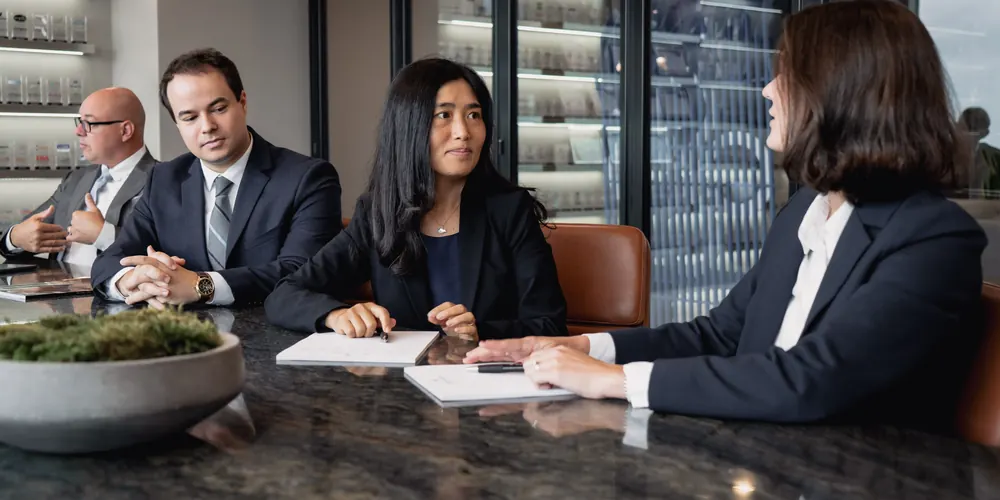
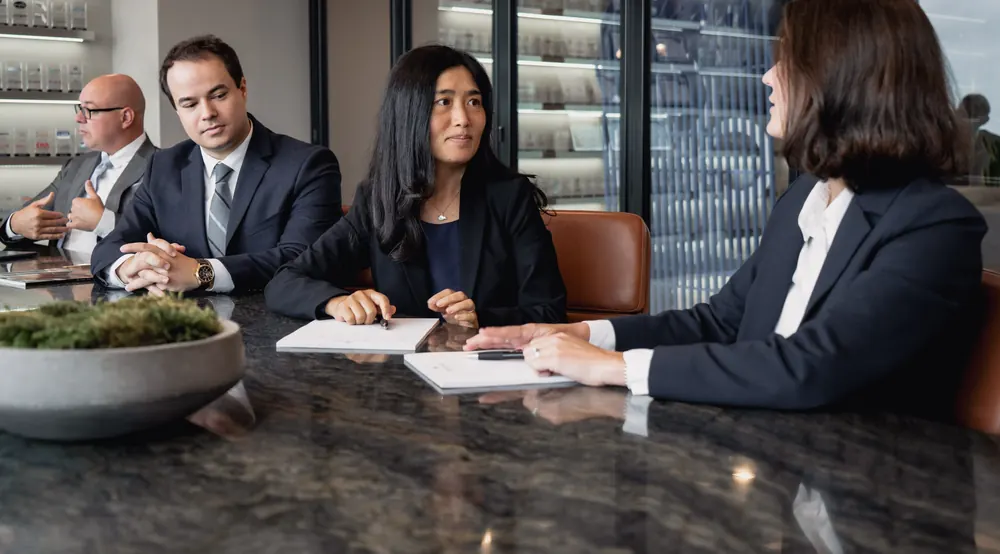
Home hero carousel: keep every head in frame at any width, add shots of Alex

diff --git a/mmt-sandbox-pvxyebvoxa/index.html b/mmt-sandbox-pvxyebvoxa/index.html
@@ -16,7 +16,7 @@
 <link rel="preload" as="style" href="https://fonts.googleapis.com/css2?family=Montserrat:wght@400;500;600;700&family=Source+Serif+4:opsz,wght@8..60,400;8..60,600&display=swap">
 <link rel="stylesheet" href="https://fonts.googleapis.com/css2?family=Montserrat:wght@400;500;600;700&family=Source+Serif+4:opsz,wght@8..60,400;8..60,600&display=swap" media="print" onload="this.media='all'">
 <noscript><link rel="stylesheet" href="https://fonts.googleapis.com/css2?family=Montserrat:wght@400;500;600;700&family=Source+Serif+4:opsz,wght@8..60,400;8..60,600&display=swap"></noscript>
-<link rel="stylesheet" href="assets/css/style.css?v=f69deb2e">
+<link rel="stylesheet" href="assets/css/style.css?v=2761323b">
 <meta name="robots" content="index, follow, max-snippet:-1, max-image-preview:large, max-video-preview:-1">
 <link rel="canonical" href="https://jp-hardin.github.io/about/mmt-sandbox-pvxyebvoxa/">
 <link rel="alternate" type="text/markdown" href="https://jp-hardin.github.io/about/mmt-sandbox-pvxyebvoxa/index.md" title="Middle Market M&amp;A Advisory | Benchmark International (Markdown)">
@@ -53,7 +53,7 @@
 </header>
 <main id="main">
 
-<section class="hero hero--photo hero--reel"><div class="hero-media hero-reel" aria-hidden="true" style="--slides: 7; --reel: 35s"><img class="reel-intro" src="assets/img/brand/knot-dark.jpg" alt="" width="1920" height="1080"><img src="assets/img/team-photos/dsc06817-crop.webp" srcset="assets/img/team-photos/dsc06817-crop-sm.webp 1000w, assets/img/team-photos/dsc06817-crop.webp 2000w" sizes="100vw" alt="" width="2000" height="761" fetchpriority="high" class="reel-slide" style="object-position: 50% 46%; transform-origin: 50% 46%; animation-delay: 1.5s"><img src="assets/img/team-photos/dsc07116-crop.webp" srcset="assets/img/team-photos/dsc07116-crop-sm.webp 1000w, assets/img/team-photos/dsc07116-crop.webp 2000w" sizes="100vw" alt="" width="2000" height="1133" class="reel-slide" style="object-position: 50% 25%; transform-origin: 50% 25%; animation-delay: 6.5s"><img src="assets/img/team-photos/dsc07374-crop.webp" srcset="assets/img/team-photos/dsc07374-crop-sm.webp 1000w, assets/img/team-photos/dsc07374-crop.webp 2000w" sizes="100vw" alt="" width="2000" height="773" class="reel-slide" style="object-position: 50% 34%; transform-origin: 50% 34%; animation-delay: 11.5s"><img src="assets/img/team-photos/dsc06680-crop.webp" srcset="assets/img/team-photos/dsc06680-crop-sm.webp 1000w, assets/img/team-photos/dsc06680-crop.webp 2000w" sizes="100vw" alt="" width="2000" height="1067" class="reel-slide" style="object-position: 50% 34%; transform-origin: 50% 34%; animation-delay: 16.5s"><img src="assets/img/team-photos/dsc07005-crop.webp" srcset="assets/img/team-photos/dsc07005-crop-sm.webp 1000w, assets/img/team-photos/dsc07005-crop.webp 2000w" sizes="100vw" alt="" width="2000" height="1000" class="reel-slide" style="object-position: 50% 27%; transform-origin: 50% 27%; animation-delay: 21.5s"><img src="assets/img/team-photos/dsc07187-crop.webp" srcset="assets/img/team-photos/dsc07187-crop-sm.webp 1000w, assets/img/team-photos/dsc07187-crop.webp 2000w" sizes="100vw" alt="" width="2000" height="1000" class="reel-slide" style="object-position: 50% 28%; transform-origin: 50% 28%; animation-delay: 26.5s"><img src="assets/img/team-photos/dsc07178-crop.webp" srcset="assets/img/team-photos/dsc07178-crop-sm.webp 1000w, assets/img/team-photos/dsc07178-crop.webp 2000w" sizes="100vw" alt="" width="2000" height="1001" class="reel-slide" style="object-position: 50% 31%; transform-origin: 50% 31%; animation-delay: 31.5s"></div>
+<style>@keyframes reel { 0% { opacity: 0; transform: scale(1.1); } 3.75% { opacity: 1; } 16.25% { opacity: 1; } 20.00% { opacity: 0; transform: scale(1.02); } 100% { opacity: 0; transform: scale(1.02); } }</style><section class="hero hero--photo hero--reel"><div class="hero-media hero-reel" aria-hidden="true" style="--slides: 8; --reel: 40s"><img class="reel-intro" src="assets/img/brand/knot-dark.jpg" alt="" width="1920" height="1080"><img src="assets/img/team-photos/dsc06817-crop.webp" srcset="assets/img/team-photos/dsc06817-crop-sm.webp 1000w, assets/img/team-photos/dsc06817-crop.webp 2000w" sizes="100vw" alt="" width="2000" height="734" fetchpriority="high" class="reel-slide" style="object-position: 60% 0%; transform-origin: 60% 0%; animation-delay: 1.5s"><img src="assets/img/team-photos/dsc07116-crop.webp" srcset="assets/img/team-photos/dsc07116-crop-sm.webp 1000w, assets/img/team-photos/dsc07116-crop.webp 2000w" sizes="100vw" alt="" width="2000" height="1373" class="reel-slide" style="object-position: 85% 0%; transform-origin: 85% 0%; animation-delay: 6.5s"><img src="assets/img/team-photos/dsc06557-crop.webp" srcset="assets/img/team-photos/dsc06557-crop-sm.webp 1000w, assets/img/team-photos/dsc06557-crop.webp 2000w" sizes="100vw" alt="" width="2000" height="1269" class="reel-slide" style="object-position: 68% 0%; transform-origin: 68% 0%; animation-delay: 11.5s"><img src="assets/img/team-photos/dsc07374-crop.webp" srcset="assets/img/team-photos/dsc07374-crop-sm.webp 1000w, assets/img/team-photos/dsc07374-crop.webp 2000w" sizes="100vw" alt="" width="2000" height="1000" class="reel-slide" style="object-position: 50% 0%; transform-origin: 50% 0%; animation-delay: 16.5s"><img src="assets/img/team-photos/dsc07161-crop.webp" srcset="assets/img/team-photos/dsc07161-crop-sm.webp 1000w, assets/img/team-photos/dsc07161-crop.webp 2000w" sizes="100vw" alt="" width="2000" height="1134" class="reel-slide" style="object-position: 78% 0%; transform-origin: 78% 0%; animation-delay: 21.5s"><img src="assets/img/team-photos/dsc07005-crop.webp" srcset="assets/img/team-photos/dsc07005-crop-sm.webp 1000w, assets/img/team-photos/dsc07005-crop.webp 2000w" sizes="100vw" alt="" width="2000" height="1013" class="reel-slide" style="object-position: 50% 0%; transform-origin: 50% 0%; animation-delay: 26.5s"><img src="assets/img/team-photos/dsc07187-crop.webp" srcset="assets/img/team-photos/dsc07187-crop-sm.webp 1000w, assets/img/team-photos/dsc07187-crop.webp 2000w" sizes="100vw" alt="" width="2000" height="1107" class="reel-slide" style="object-position: 70% 0%; transform-origin: 70% 0%; animation-delay: 31.5s"><img src="assets/img/team-photos/dsc07178-crop.webp" srcset="assets/img/team-photos/dsc07178-crop-sm.webp 1000w, assets/img/team-photos/dsc07178-crop.webp 2000w" sizes="100vw" alt="" width="2000" height="1107" class="reel-slide" style="object-position: 55% 0%; transform-origin: 55% 0%; animation-delay: 36.5s"></div>
   <div class="wrap">
     <p class="eyebrow">Benchmark International · <span class="nowrap">Middle Market</span></p>
     <h1 class="display">Your Legacy Is Built. <em>Your Next Chapter Awaits.</em></h1>

diff --git a/mmt-sandbox-pvxyebvoxa/assets/css/style.css b/mmt-sandbox-pvxyebvoxa/assets/css/style.css
@@ -803,17 +803,12 @@ a.tomb:hover { transform: translateY(-4px); box-shadow: var(--shadow); border-co
 /* Team photos (img.team-photo) are cropped to keep heads in frame; each sets object-position on the faces (team_photos.py) */
 
 /* Home hero carousel (hero_carousel() in build.py): the slides stack and crossfade in turn, each on a slow zoom,
-   so the hero plays almost like a video. Each slide is on screen for --reel / --slides (5 s), with a 1.5 s dissolve. */
+   so the hero plays almost like a video. Each slide is on screen for 5 s, with a 1.5 s dissolve. */
 .hero-reel img { position: absolute; inset: 0; }
 .hero-reel .reel-intro { animation: none; object-position: center; }  /* the black knot brand background, shown first */
 .hero-reel .reel-slide { opacity: 0; animation: reel var(--reel) linear infinite; }
-@keyframes reel {
-  0% { opacity: 0; transform: scale(1.12); }
-  4.3% { opacity: 1; }
-  18.6% { opacity: 1; }
-  23% { opacity: 0; transform: scale(1.02); }
-  100% { opacity: 0; transform: scale(1.02); }
-}
+/* @keyframes reel is written next to the hero by hero_carousel(), timed from the number of slides */
+
 @media (prefers-reduced-motion: reduce) {
   .hero-reel .reel-slide { animation: none; }
   .hero-reel .reel-slide:nth-child(2) { opacity: 1; }

diff --git a/mmt-sandbox-pvxyebvoxa/industries/business-services.html b/mmt-sandbox-pvxyebvoxa/industries/business-services.html
@@ -16,7 +16,7 @@
 <link rel="preload" as="style" href="https://fonts.googleapis.com/css2?family=Montserrat:wght@400;500;600;700&family=Source+Serif+4:opsz,wght@8..60,400;8..60,600&display=swap">
 <link rel="stylesheet" href="https://fonts.googleapis.com/css2?family=Montserrat:wght@400;500;600;700&family=Source+Serif+4:opsz,wght@8..60,400;8..60,600&display=swap" media="print" onload="this.media='all'">
 <noscript><link rel="stylesheet" href="https://fonts.googleapis.com/css2?family=Montserrat:wght@400;500;600;700&family=Source+Serif+4:opsz,wght@8..60,400;8..60,600&display=swap"></noscript>
-<link rel="stylesheet" href="../assets/css/style.css?v=f69deb2e">
+<link rel="stylesheet" href="../assets/css/style.css?v=2761323b">
 <meta name="robots" content="index, follow, max-snippet:-1, max-image-preview:large, max-video-preview:-1">
 <link rel="canonical" href="https://jp-hardin.github.io/about/mmt-sandbox-pvxyebvoxa/industries/business-services.html">
 <link rel="alternate" type="text/markdown" href="https://jp-hardin.github.io/about/mmt-sandbox-pvxyebvoxa/industries/business-services.md" title="Business Services M&amp;A Advisory | Benchmark International (Markdown)">

diff --git a/mmt-sandbox-pvxyebvoxa/industries/industrial.html b/mmt-sandbox-pvxyebvoxa/industries/industrial.html
@@ -16,7 +16,7 @@
 <link rel="preload" as="style" href="https://fonts.googleapis.com/css2?family=Montserrat:wght@400;500;600;700&family=Source+Serif+4:opsz,wght@8..60,400;8..60,600&display=swap">
 <link rel="stylesheet" href="https://fonts.googleapis.com/css2?family=Montserrat:wght@400;500;600;700&family=Source+Serif+4:opsz,wght@8..60,400;8..60,600&display=swap" media="print" onload="this.media='all'">
 <noscript><link rel="stylesheet" href="https://fonts.googleapis.com/css2?family=Montserrat:wght@400;500;600;700&family=Source+Serif+4:opsz,wght@8..60,400;8..60,600&display=swap"></noscript>
-<link rel="stylesheet" href="../assets/css/style.css?v=f69deb2e">
+<link rel="stylesheet" href="../assets/css/style.css?v=2761323b">
 <meta name="robots" content="index, follow, max-snippet:-1, max-image-preview:large, max-video-preview:-1">
 <link rel="canonical" href="https://jp-hardin.github.io/about/mmt-sandbox-pvxyebvoxa/industries/industrial.html">
 <link rel="alternate" type="text/markdown" href="https://jp-hardin.github.io/about/mmt-sandbox-pvxyebvoxa/industries/industrial.md" title="Industrials M&amp;A Advisory | Benchmark International (Markdown)">

diff --git a/mmt-sandbox-pvxyebvoxa/industries/healthcare.html b/mmt-sandbox-pvxyebvoxa/industries/healthcare.html
@@ -16,7 +16,7 @@
 <link rel="preload" as="style" href="https://fonts.googleapis.com/css2?family=Montserrat:wght@400;500;600;700&family=Source+Serif+4:opsz,wght@8..60,400;8..60,600&display=swap">
 <link rel="stylesheet" href="https://fonts.googleapis.com/css2?family=Montserrat:wght@400;500;600;700&family=Source+Serif+4:opsz,wght@8..60,400;8..60,600&display=swap" media="print" onload="this.media='all'">
 <noscript><link rel="stylesheet" href="https://fonts.googleapis.com/css2?family=Montserrat:wght@400;500;600;700&family=Source+Serif+4:opsz,wght@8..60,400;8..60,600&display=swap"></noscript>
-<link rel="stylesheet" href="../assets/css/style.css?v=f69deb2e">
+<link rel="stylesheet" href="../assets/css/style.css?v=2761323b">
 <meta name="robots" content="index, follow, max-snippet:-1, max-image-preview:large, max-video-preview:-1">
 <link rel="canonical" href="https://jp-hardin.github.io/about/mmt-sandbox-pvxyebvoxa/industries/healthcare.html">
 <link rel="alternate" type="text/markdown" href="https://jp-hardin.github.io/about/mmt-sandbox-pvxyebvoxa/industries/healthcare.md" title="Healthcare M&amp;A Advisory | Benchmark International (Markdown)">

diff --git a/mmt-sandbox-pvxyebvoxa/industries/technology.html b/mmt-sandbox-pvxyebvoxa/industries/technology.html
@@ -16,7 +16,7 @@
 <link rel="preload" as="style" href="https://fonts.googleapis.com/css2?family=Montserrat:wght@400;500;600;700&family=Source+Serif+4:opsz,wght@8..60,400;8..60,600&display=swap">
 <link rel="stylesheet" href="https://fonts.googleapis.com/css2?family=Montserrat:wght@400;500;600;700&family=Source+Serif+4:opsz,wght@8..60,400;8..60,600&display=swap" media="print" onload="this.media='all'">
 <noscript><link rel="stylesheet" href="https://fonts.googleapis.com/css2?family=Montserrat:wght@400;500;600;700&family=Source+Serif+4:opsz,wght@8..60,400;8..60,600&display=swap"></noscript>
-<link rel="stylesheet" href="../assets/css/style.css?v=f69deb2e">
+<link rel="stylesheet" href="../assets/css/style.css?v=2761323b">
 <meta name="robots" content="index, follow, max-snippet:-1, max-image-preview:large, max-video-preview:-1">
 <link rel="canonical" href="https://jp-hardin.github.io/about/mmt-sandbox-pvxyebvoxa/industries/technology.html">
 <link rel="alternate" type="text/markdown" href="https://jp-hardin.github.io/about/mmt-sandbox-pvxyebvoxa/industries/technology.md" title="Technology M&amp;A Advisory | Benchmark International (Markdown)">

diff --git a/mmt-sandbox-pvxyebvoxa/industries/index.html b/mmt-sandbox-pvxyebvoxa/industries/index.html
@@ -16,7 +16,7 @@
 <link rel="preload" as="style" href="https://fonts.googleapis.com/css2?family=Montserrat:wght@400;500;600;700&family=Source+Serif+4:opsz,wght@8..60,400;8..60,600&display=swap">
 <link rel="stylesheet" href="https://fonts.googleapis.com/css2?family=Montserrat:wght@400;500;600;700&family=Source+Serif+4:opsz,wght@8..60,400;8..60,600&display=swap" media="print" onload="this.media='all'">
 <noscript><link rel="stylesheet" href="https://fonts.googleapis.com/css2?family=Montserrat:wght@400;500;600;700&family=Source+Serif+4:opsz,wght@8..60,400;8..60,600&display=swap"></noscript>
-<link rel="stylesheet" href="../assets/css/style.css?v=f69deb2e">
+<link rel="stylesheet" href="../assets/css/style.css?v=2761323b">
 <meta name="robots" content="index, follow, max-snippet:-1, max-image-preview:large, max-video-preview:-1">
 <link rel="canonical" href="https://jp-hardin.github.io/about/mmt-sandbox-pvxyebvoxa/industries/index.html">
 <link rel="alternate" type="text/markdown" href="https://jp-hardin.github.io/about/mmt-sandbox-pvxyebvoxa/industries/index.md" title="Industries We Advise | Benchmark International Middle Market (Markdown)">

diff --git a/mmt-sandbox-pvxyebvoxa/insights/index.html b/mmt-sandbox-pvxyebvoxa/insights/index.html
@@ -16,7 +16,7 @@
 <link rel="preload" as="style" href="https://fonts.googleapis.com/css2?family=Montserrat:wght@400;500;600;700&family=Source+Serif+4:opsz,wght@8..60,400;8..60,600&display=swap">
 <link rel="stylesheet" href="https://fonts.googleapis.com/css2?family=Montserrat:wght@400;500;600;700&family=Source+Serif+4:opsz,wght@8..60,400;8..60,600&display=swap" media="print" onload="this.media='all'">
 <noscript><link rel="stylesheet" href="https://fonts.googleapis.com/css2?family=Montserrat:wght@400;500;600;700&family=Source+Serif+4:opsz,wght@8..60,400;8..60,600&display=swap"></noscript>
-<link rel="stylesheet" href="../assets/css/style.css?v=f69deb2e">
+<link rel="stylesheet" href="../assets/css/style.css?v=2761323b">
 <meta name="robots" content="index, follow, max-snippet:-1, max-image-preview:large, max-video-preview:-1">
 <link rel="canonical" href="https://jp-hardin.github.io/about/mmt-sandbox-pvxyebvoxa/insights/index.html">
 <link rel="alternate" type="text/markdown" href="https://jp-hardin.github.io/about/mmt-sandbox-pvxyebvoxa/insights/index.md" title="Middle Market M&amp;A Industry Reports | Benchmark International (Markdown)">

diff --git a/mmt-sandbox-pvxyebvoxa/industries/consumer.html b/mmt-sandbox-pvxyebvoxa/industries/consumer.html
@@ -16,7 +16,7 @@
 <link rel="preload" as="style" href="https://fonts.googleapis.com/css2?family=Montserrat:wght@400;500;600;700&family=Source+Serif+4:opsz,wght@8..60,400;8..60,600&display=swap">
 <link rel="stylesheet" href="https://fonts.googleapis.com/css2?family=Montserrat:wght@400;500;600;700&family=Source+Serif+4:opsz,wght@8..60,400;8..60,600&display=swap" media="print" onload="this.media='all'">
 <noscript><link rel="stylesheet" href="https://fonts.googleapis.com/css2?family=Montserrat:wght@400;500;600;700&family=Source+Serif+4:opsz,wght@8..60,400;8..60,600&display=swap"></noscript>
-<link rel="stylesheet" href="../assets/css/style.css?v=f69deb2e">
+<link rel="stylesheet" href="../assets/css/style.css?v=2761323b">
 <meta name="robots" content="index, follow, max-snippet:-1, max-image-preview:large, max-video-preview:-1">
 <link rel="canonical" href="https://jp-hardin.github.io/about/mmt-sandbox-pvxyebvoxa/industries/consumer.html">
 <link rel="alternate" type="text/markdown" href="https://jp-hardin.github.io/about/mmt-sandbox-pvxyebvoxa/industries/consumer.md" title="Consumer M&amp;A Advisory | Benchmark International (Markdown)">

diff --git a/mmt-sandbox-pvxyebvoxa/transactions.html b/mmt-sandbox-pvxyebvoxa/transactions.html
@@ -16,7 +16,7 @@
 <link rel="preload" as="style" href="https://fonts.googleapis.com/css2?family=Montserrat:wght@400;500;600;700&family=Source+Serif+4:opsz,wght@8..60,400;8..60,600&display=swap">
 <link rel="stylesheet" href="https://fonts.googleapis.com/css2?family=Montserrat:wght@400;500;600;700&family=Source+Serif+4:opsz,wght@8..60,400;8..60,600&display=swap" media="print" onload="this.media='all'">
 <noscript><link rel="stylesheet" href="https://fonts.googleapis.com/css2?family=Montserrat:wght@400;500;600;700&family=Source+Serif+4:opsz,wght@8..60,400;8..60,600&display=swap"></noscript>
-<link rel="stylesheet" href="assets/css/style.css?v=f69deb2e">
+<link rel="stylesheet" href="assets/css/style.css?v=2761323b">
 <meta name="robots" content="index, follow, max-snippet:-1, max-image-preview:large, max-video-preview:-1">
 <link rel="canonical" href="https://jp-hardin.github.io/about/mmt-sandbox-pvxyebvoxa/transactions.html">
 <link rel="alternate" type="text/markdown" href="https://jp-hardin.github.io/about/mmt-sandbox-pvxyebvoxa/transactions.md" title="Completed M&amp;A Transactions | Benchmark International (Markdown)">

diff --git a/mmt-sandbox-pvxyebvoxa/report-terms.html b/mmt-sandbox-pvxyebvoxa/report-terms.html
@@ -16,7 +16,7 @@
 <link rel="preload" as="style" href="https://fonts.googleapis.com/css2?family=Montserrat:wght@400;500;600;700&family=Source+Serif+4:opsz,wght@8..60,400;8..60,600&display=swap">
 <link rel="stylesheet" href="https://fonts.googleapis.com/css2?family=Montserrat:wght@400;500;600;700&family=Source+Serif+4:opsz,wght@8..60,400;8..60,600&display=swap" media="print" onload="this.media='all'">
 <noscript><link rel="stylesheet" href="https://fonts.googleapis.com/css2?family=Montserrat:wght@400;500;600;700&family=Source+Serif+4:opsz,wght@8..60,400;8..60,600&display=swap"></noscript>
-<link rel="stylesheet" href="assets/css/style.css?v=f69deb2e">
+<link rel="stylesheet" href="assets/css/style.css?v=2761323b">
 <meta name="robots" content="index, follow, max-snippet:-1, max-image-preview:large, max-video-preview:-1">
 <link rel="canonical" href="https://jp-hardin.github.io/about/mmt-sandbox-pvxyebvoxa/report-terms.html">
 <link rel="alternate" type="text/markdown" href="https://jp-hardin.github.io/about/mmt-sandbox-pvxyebvoxa/report-terms.md" title="Report Terms and Conditions | Benchmark International (Markdown)">

diff --git a/mmt-sandbox-pvxyebvoxa/disclosures.html b/mmt-sandbox-pvxyebvoxa/disclosures.html
@@ -16,7 +16,7 @@
 <link rel="preload" as="style" href="https://fonts.googleapis.com/css2?family=Montserrat:wght@400;500;600;700&family=Source+Serif+4:opsz,wght@8..60,400;8..60,600&display=swap">
 <link rel="stylesheet" href="https://fonts.googleapis.com/css2?family=Montserrat:wght@400;500;600;700&family=Source+Serif+4:opsz,wght@8..60,400;8..60,600&display=swap" media="print" onload="this.media='all'">
 <noscript><link rel="stylesheet" href="https://fonts.googleapis.com/css2?family=Montserrat:wght@400;500;600;700&family=Source+Serif+4:opsz,wght@8..60,400;8..60,600&display=swap"></noscript>
-<link rel="stylesheet" href="assets/css/style.css?v=f69deb2e">
+<link rel="stylesheet" href="assets/css/style.css?v=2761323b">
 <meta name="robots" content="index, follow, max-snippet:-1, max-image-preview:large, max-video-preview:-1">
 <link rel="canonical" href="https://jp-hardin.github.io/about/mmt-sandbox-pvxyebvoxa/disclosures.html">
 <link rel="alternate" type="text/markdown" href="https://jp-hardin.github.io/about/mmt-sandbox-pvxyebvoxa/disclosures.md" title="Important Disclosures | Benchmark International (Markdown)">
